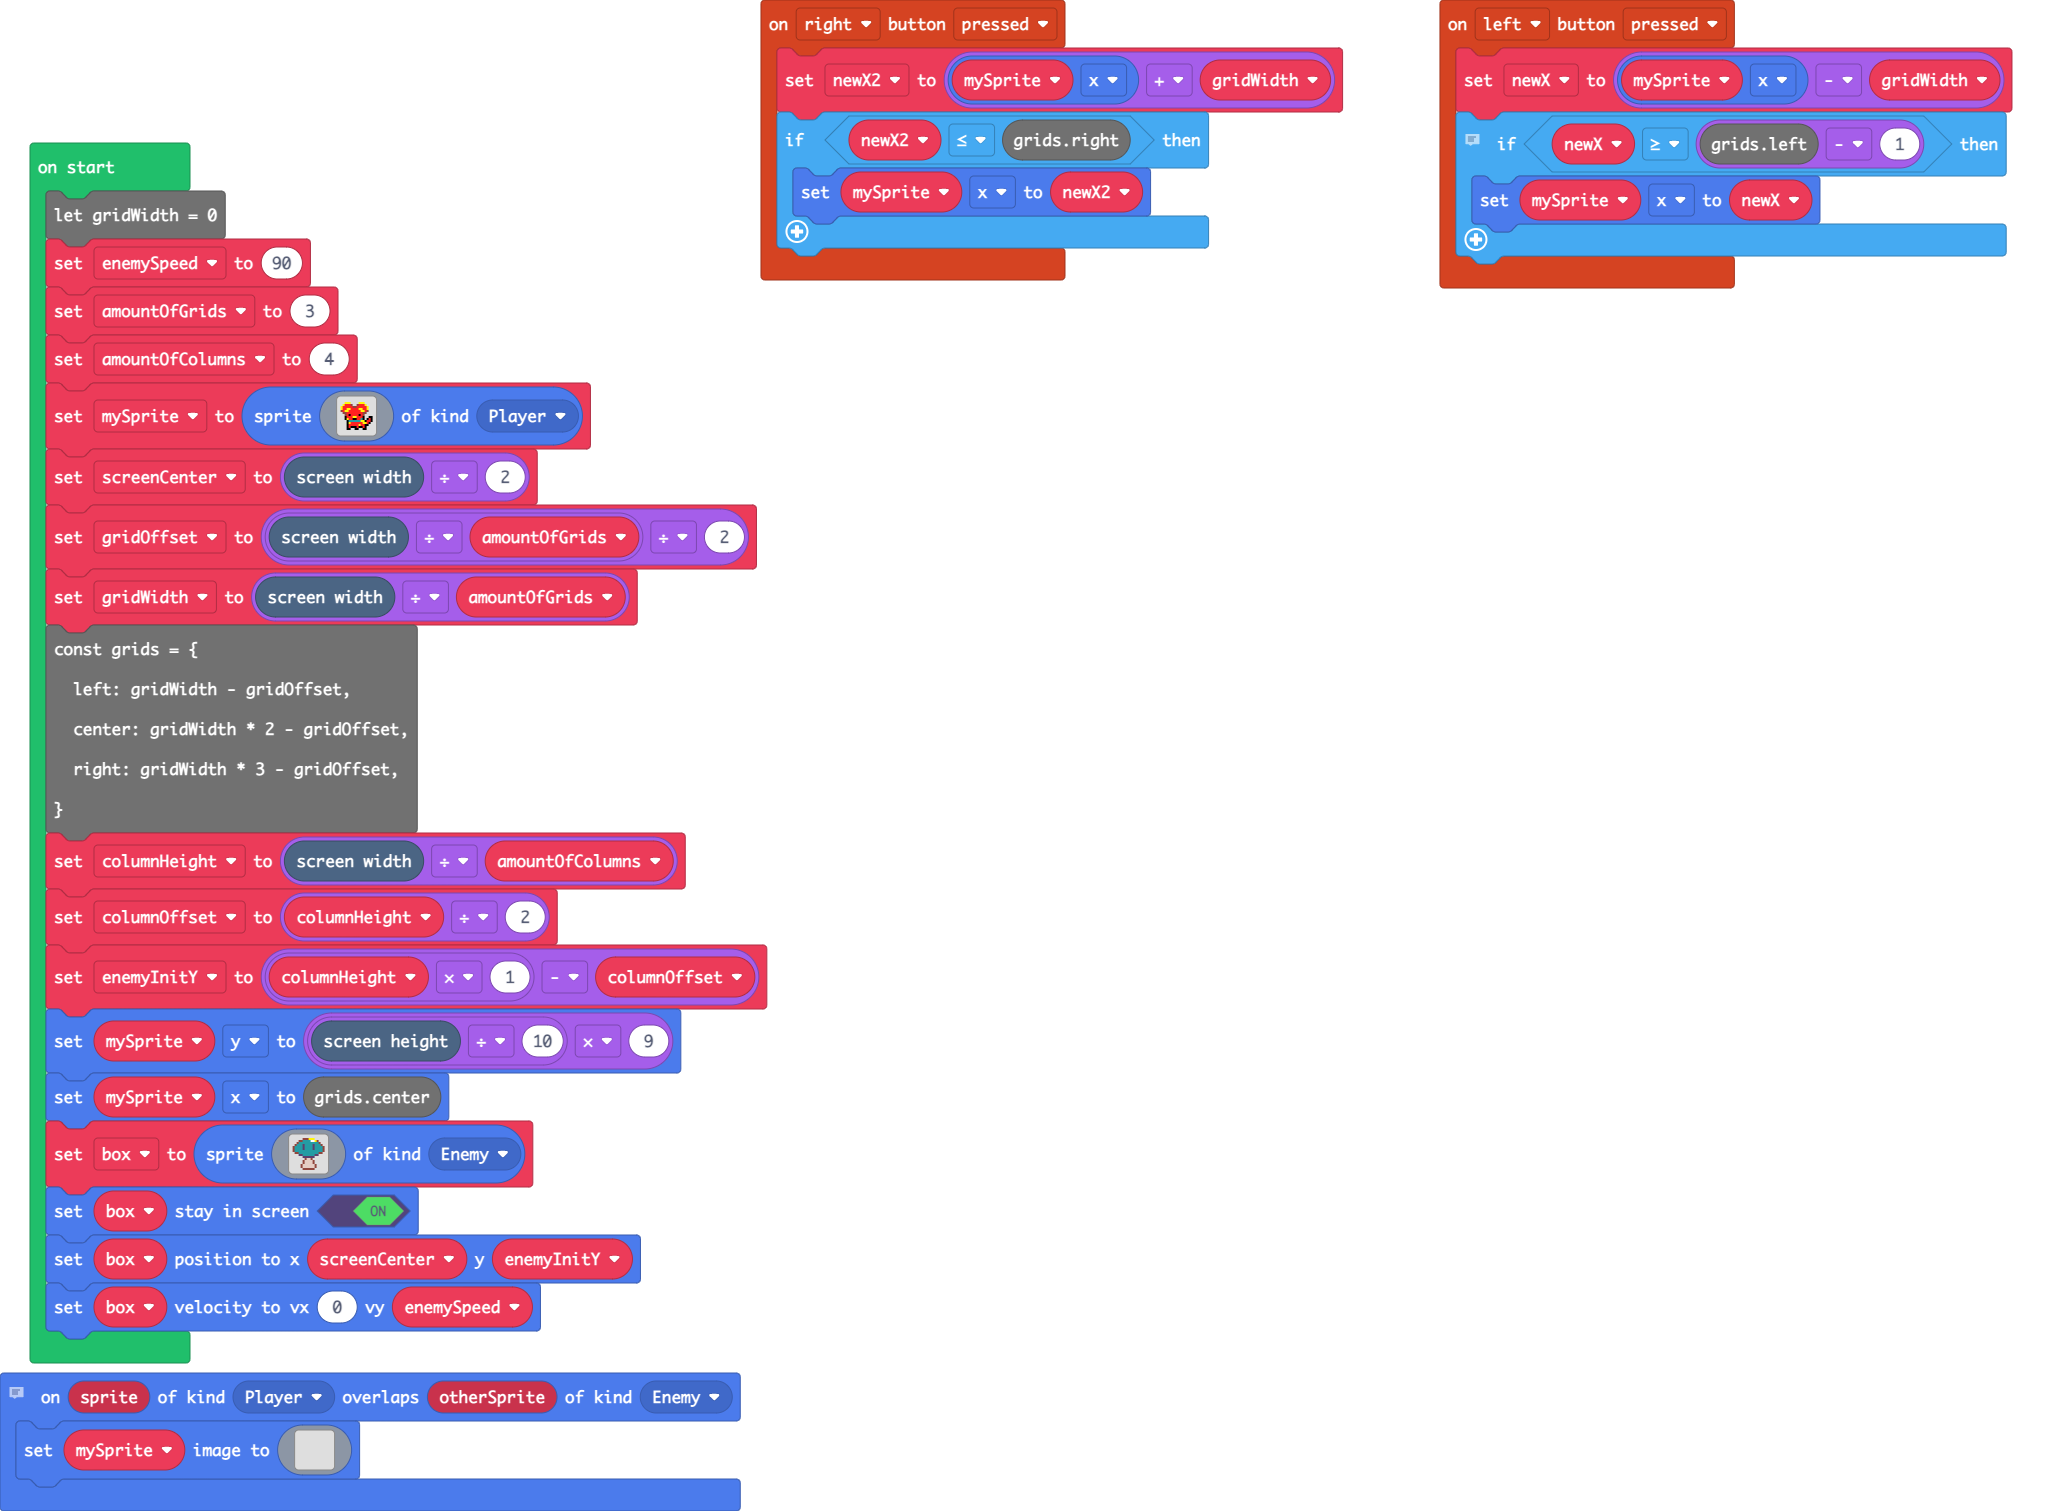
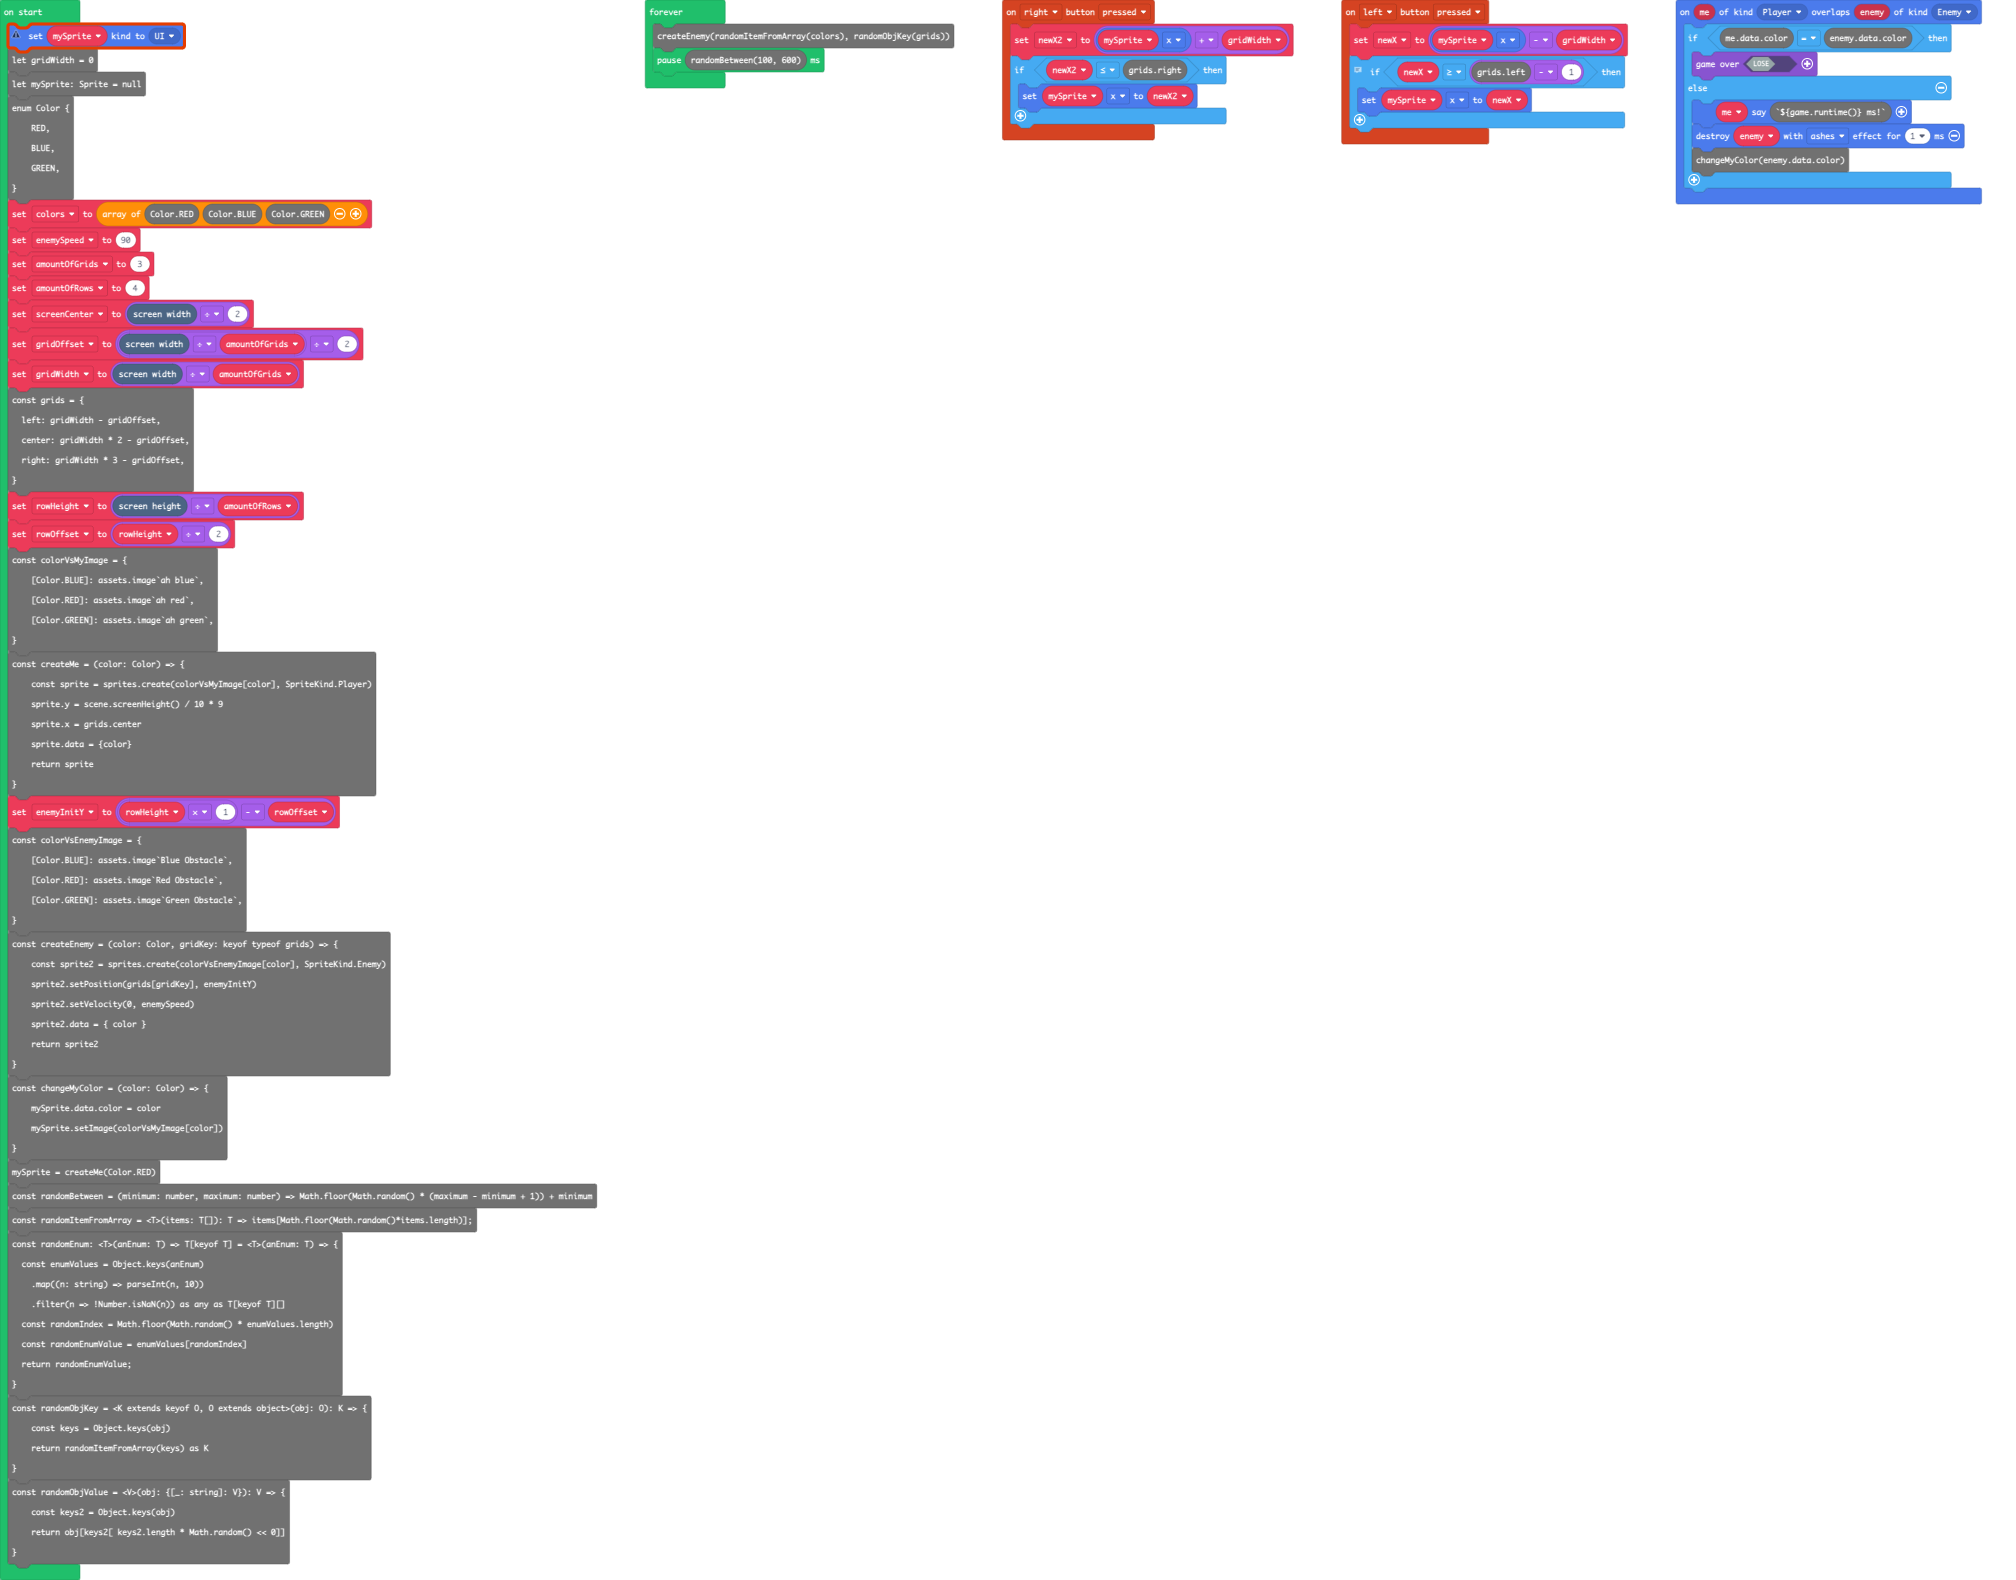
Timer and level

diff --git a/main.ts b/main.ts
@@ -1,14 +1,38 @@
-
+namespace SpriteKind {
+    export const UI = SpriteKind.create()
+}
+controller.left.onEvent(ControllerButtonEvent.Pressed, function () {
+    newX = mySprite.x - gridWidth
+    // TODO: not sure why need the hack
+    if (newX >= grids.left - 1) {
+        mySprite.x = newX
+    }
+})
+controller.right.onEvent(ControllerButtonEvent.Pressed, function () {
+    newX2 = mySprite.x + gridWidth
+    if (newX2 <= grids.right) {
+        mySprite.x = newX2
+    }
+})
+sprites.onOverlap(SpriteKind.Player, SpriteKind.Enemy, function (me, enemy) {
+    if (me.data.color == enemy.data.color) {
+        info.setScore(game.runtime())
+        game.over(false)
+    } else {
+        enemy.destroy(effects.ashes, 1)
+        changeMyColor(enemy.data.color)
+    }
+})
+let newX2 = 0
+let newX = 0
+let gridWidth = 0
+let mySprite: Sprite = null
 enum Color {
     RED,
     BLUE,
     GREEN,
 }
-const colors = [Color.RED, Color.BLUE, Color.GREEN]
-let newX2 = 0
-let newX = 0
-let mySprite: Sprite = null
-let gridWidth = 0
+let colors = [Color.RED, Color.BLUE, Color.GREEN]
 let enemySpeed = 90
 let amountOfGrids = 3
 let amountOfRows = 4
@@ -34,55 +58,26 @@ const createMe = (color: Color) => {
     sprite.data = {color}
     return sprite
 }
-
 let enemyInitY = rowHeight * 1 - rowOffset
 const colorVsEnemyImage = {
     [Color.BLUE]: assets.image`Blue Obstacle`,
     [Color.RED]: assets.image`Red Obstacle`,
     [Color.GREEN]: assets.image`Green Obstacle`,
 }
-
 const createEnemy = (color: Color, gridKey: keyof typeof grids) => {
-    const sprite = sprites.create(colorVsEnemyImage[color], SpriteKind.Enemy)
-    sprite.setStayInScreen(true)
-    sprite.setPosition(grids[gridKey], enemyInitY)
-    sprite.setVelocity(0, enemySpeed)
-    sprite.data = { color }
-    return sprite
+    const sprite2 = sprites.create(colorVsEnemyImage[color], SpriteKind.Enemy)
+    sprite2.setPosition(grids[gridKey], enemyInitY)
+    sprite2.setVelocity(0, enemySpeed)
+    sprite2.data = { color }
+    return sprite2
 }
-
 const changeMyColor = (color: Color) => {
     mySprite.data.color = color
     mySprite.setImage(colorVsMyImage[color])
 }
-
 mySprite = createMe(Color.RED)
-controller.left.onEvent(ControllerButtonEvent.Pressed, function () {
-    newX = mySprite.x - gridWidth
-    // TODO: not sure why need the hack
-    if (newX >= grids.left - 1) {
-        mySprite.x = newX
-    }
-})
-controller.right.onEvent(ControllerButtonEvent.Pressed, function () {
-    newX2 = mySprite.x + gridWidth
-    if (newX2 <= grids.right) {
-        mySprite.x = newX2
-    }
-})
-sprites.onOverlap(SpriteKind.Player, SpriteKind.Enemy, function (me, enemy) {
-    if (me.data.color === enemy.data.color) {
-        console.log('booom')
-        game.over(false)
-    } else {
-        enemy.destroy(effects.ashes, 1)
-        changeMyColor(enemy.data.color)
-    }
-})
-
 const randomBetween = (minimum: number, maximum: number) => Math.floor(Math.random() * (maximum - minimum + 1)) + minimum
 const randomItemFromArray = <T>(items: T[]): T => items[Math.floor(Math.random()*items.length)];
-
 const randomEnum: <T>(anEnum: T) => T[keyof T] = <T>(anEnum: T) => {
   const enumValues = Object.keys(anEnum)
     .map((n: string) => parseInt(n, 10))
@@ -91,18 +86,28 @@ const randomEnum: <T>(anEnum: T) => T[keyof T] = <T>(anEnum: T) => {
   const randomEnumValue = enumValues[randomIndex]
   return randomEnumValue;
 }
-
 const randomObjKey = <K extends keyof O, O extends object>(obj: O): K => {
     const keys = Object.keys(obj)
     return randomItemFromArray(keys) as K
 }
-
 const randomObjValue = <V>(obj: {[_: string]: V}): V => {
-    const keys = Object.keys(obj)
-    return obj[keys[ keys.length * Math.random() << 0]]
+    const keys2 = Object.keys(obj)
+    return obj[keys2[ keys2.length * Math.random() << 0]]
 }
 
-forever(function() {
+const levelDuration = 5
+let difficultyLevel = 1
+let enermyFrequency = 1000
+
+forever(function () {
     createEnemy(randomItemFromArray(colors), randomObjKey(grids))
-    pause(randomBetween(100, 500))
+pause(randomBetween((enermyFrequency/2), enermyFrequency))
+})
+
+info.startCountdown(levelDuration)
+info.onCountdownEnd(function() {
+    mySprite.say(`Speed up! LV${difficultyLevel}`, 1000)
+    enermyFrequency = enermyFrequency * 8 / 10
+    difficultyLevel += 1
+    info.startCountdown(levelDuration)
 })
